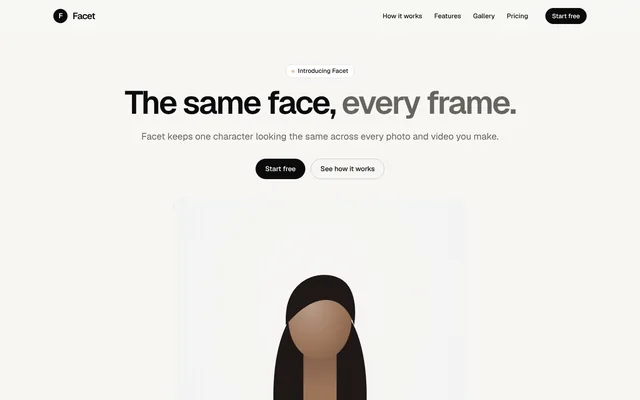
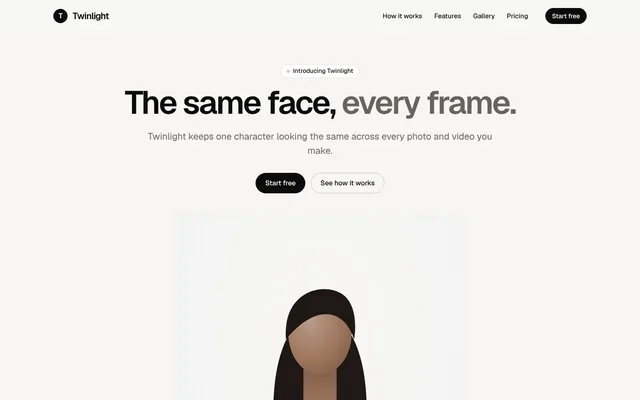
Website templates: rename the AI product example to Twinlight
Facet is a real AI image product, so the ai-product template's fictional brand
is now Twinlight (writer example, copy, logo letter). The app-landing example
Ledgerly shared its name and category with small real expense apps, so it is now
Tallyfern. Thumbnails regenerated for both.

Claude-Session: https://claude.ai/code/session_01PNWM9AuSBWnLEgpmAr6rZE

diff --git a/public/js/website/spec.js b/public/js/website/spec.js
@@ -11,7 +11,7 @@ export const SPEC_VERSION = 1;
 export const KINDS = {
   business: { name: 'Business', style: 'friendly', example: 'A site for my lawn care business in Cedar Rapids. Mowing, fertilizing, aeration and fall cleanup.' },
   portfolio: { name: 'Portfolio', style: 'studio', example: 'A portfolio for Ana Ruiz, a wedding and portrait photographer in Austin.' },
-  landing: { name: 'Landing page', style: 'swiss', example: 'A landing page for Ledgerly, an app that turns receipts into a tidy monthly budget.' },
+  landing: { name: 'Landing page', style: 'swiss', example: 'A landing page for Tallyfern, an app that turns receipts into a tidy monthly budget.' },
   event: { name: 'Event', style: 'bold', example: 'A site for Prairie Code Camp, a one-day developer conference on May 16, 2027 at the Paramount Theatre in Cedar Rapids.' },
   restaurant: { name: 'Restaurant', style: 'luxe', example: 'A site for Casa Verde, a family taqueria in Des Moines with handmade tortillas and a patio.' },
   band: { name: 'Band / artist', style: 'bold', example: 'A site for The Low Lanterns, a four-piece indie folk band from Iowa City. New album and a fall tour.' },
@@ -21,7 +21,7 @@ export const KINDS = {
   shop: { name: 'Shop / label', style: 'editorial-shop', example: 'A shop for Kelsa Atelier, a small outerwear label in Lyon making waxed field jackets, wool coats, travel trousers and overshirts.' },
   manifesto: { name: 'Manifesto', style: 'manifesto', example: 'A manifesto for Quiet Hours, a sound studio that believes cities should protect silence as a public good.' },
   cases: { name: 'Case studies', style: 'portfolio-timeline', example: 'A chronological portfolio for Noor Haddad, an interaction designer in Oakland who has shipped maps, cameras, reading apps and a thermostat since 2009.' },
-  product: { name: 'AI product launch', style: 'ai-product', example: 'A launch page for Facet, an AI studio that keeps one character looking the same across every photo and video you make.' },
+  product: { name: 'AI product launch', style: 'ai-product', example: 'A launch page for Twinlight, an AI studio that keeps one character looking the same across every photo and video you make.' },
 };
 
 // ---------------------------------------------------------------------------------------------
